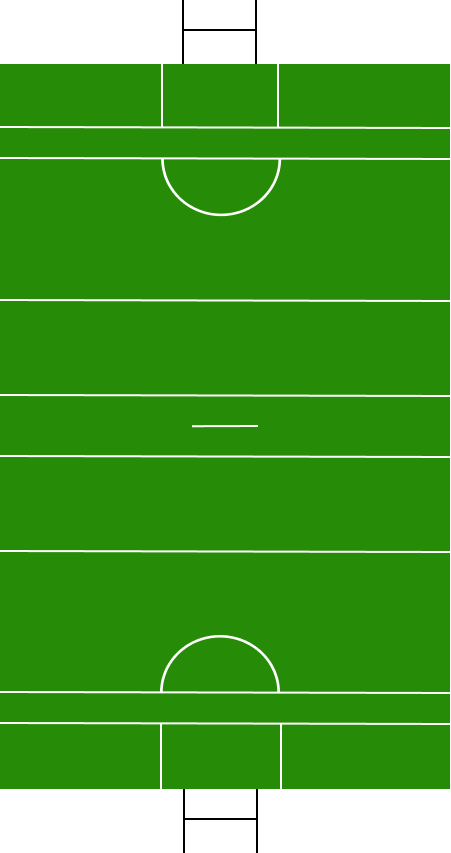
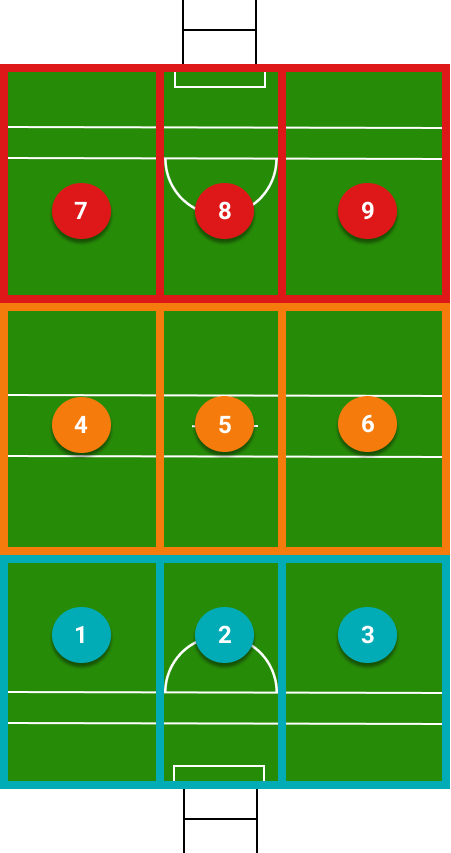
Added grid to pitch
- Updated pitch to show numbered grid
- Added possession row
- Inserted more game events.
- Updated the outcomes

diff --git a/index.html b/index.html
@@ -28,10 +28,24 @@
             <div id="events">
                 <ul class="list-group">
                     <li class="list-group-item">
+                        <h3>Start game</h3>
+                        <small>Signify the start of the game.</small>
+                        <div class="pt-2 pb-2">
+                            <span>Use case: <i>Start game (followed by throw-in)</i></span>
+                        </div>
+                    </li>
+                    <li class="list-group-item">
+                        <h3>Throw-in</h3>
+                        <small>The ball is thrown up to start the game.</small>
+                        <div class="pt-2 pb-2">
+                            <span>Use case: <i>Throw-in</i></span>
+                        </div>
+                    </li>
+                    <li class="list-group-item">
                         <h3>Shot</h3>
                         <small>A player attempts to score either a goal or a point.</small>
                         <div class="pt-2 pb-2">
-                            <span>Use case: <i>Shot (outcome) (player number)</i></span>
+                            <span>Use case: <i><b>Shot</b> (outcome) (player number)</i></span>
                         </div>
                     </li>
                     <li class="list-group-item">
@@ -106,19 +120,31 @@
                 <ul class="list-group">
                     <li class="list-group-item">
                         <h3>Goal</h3>
-                        <small>description</small>
+                        <small>A player has scored a goal.</small>
+                        <div class="pt-2 pb-2">
+                            <span>Use case: <i>Shot <b>Goal</b> (player number)</i></span>
+                        </div>
                     </li>
                     <li class="list-group-item">
                         <h3>Point</h3>
-                        <small>description</small>
+                        <small>A player has scored a point.</small>
+                        <div class="pt-2 pb-2">
+                            <span>Use case: <i>Shot <b>Point</b> (player number)</i></span>
+                        </div>
                     </li>
                     <li class="list-group-item">
                         <h3>Wide</h3>
-                        <small>description</small>
+                        <small>A player has failed to score from an attempted shot.</small>
+                        <div class="pt-2 pb-2">
+                            <span>Use case: <i>Shot <b>Wide</b> (player number)</i></span>
+                        </div>
                     </li>
                     <li class="list-group-item">
                         <h3>Turnover</h3>
-                        <small>description</small>
+                        <small>A team has lost the ball which results in a change of possession.</small>
+                        <div class="pt-2 pb-2">
+                            <span>Use case: <i><b>Turnover</b> (possession)</i></span>
+                        </div>
                     </li>
                     <li class="list-group-item">
                         <h3>Forthy-five</h3>
@@ -129,8 +155,24 @@
         </div>
         <br>
         <div class="row">
-            <div id="video">
-                <h2>Example video</h2>
+            <h2>Possession</h2>
+        </div>
+        <div class="row">
+            <div id="possession">
+                <ul class="list-group">
+                    <li class="list-group-item">
+                        <div class="pt-2 pb-2">
+                            <span>- Used to indicate which team has possession of the ball.</span>
+                            <br>
+                            <span>- Teams are refernced using the colour of their jersey <i>e.g. Cavan = Blue, Louth = Red.</i></span>
+                        </div>
+                    </li>
+                    <li class="list-group-item">
+                        <div class="pt-2 pb-2">
+                            <span>Use case: <i>(Team colour) ball</i></span>
+                        </div>
+                    </li>
+                </ul>
             </div>
         </div>
 
